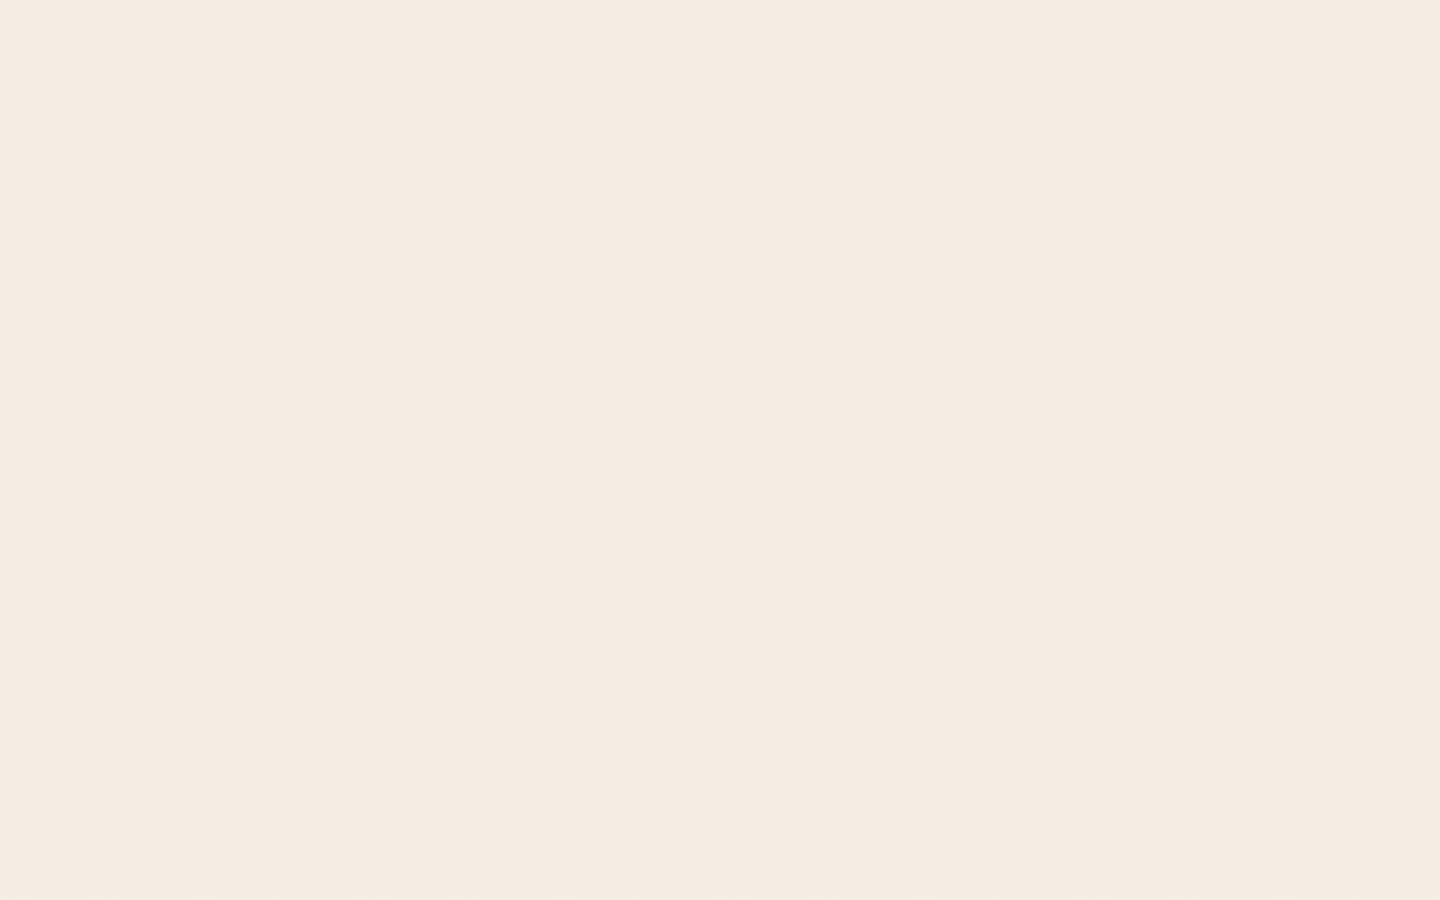
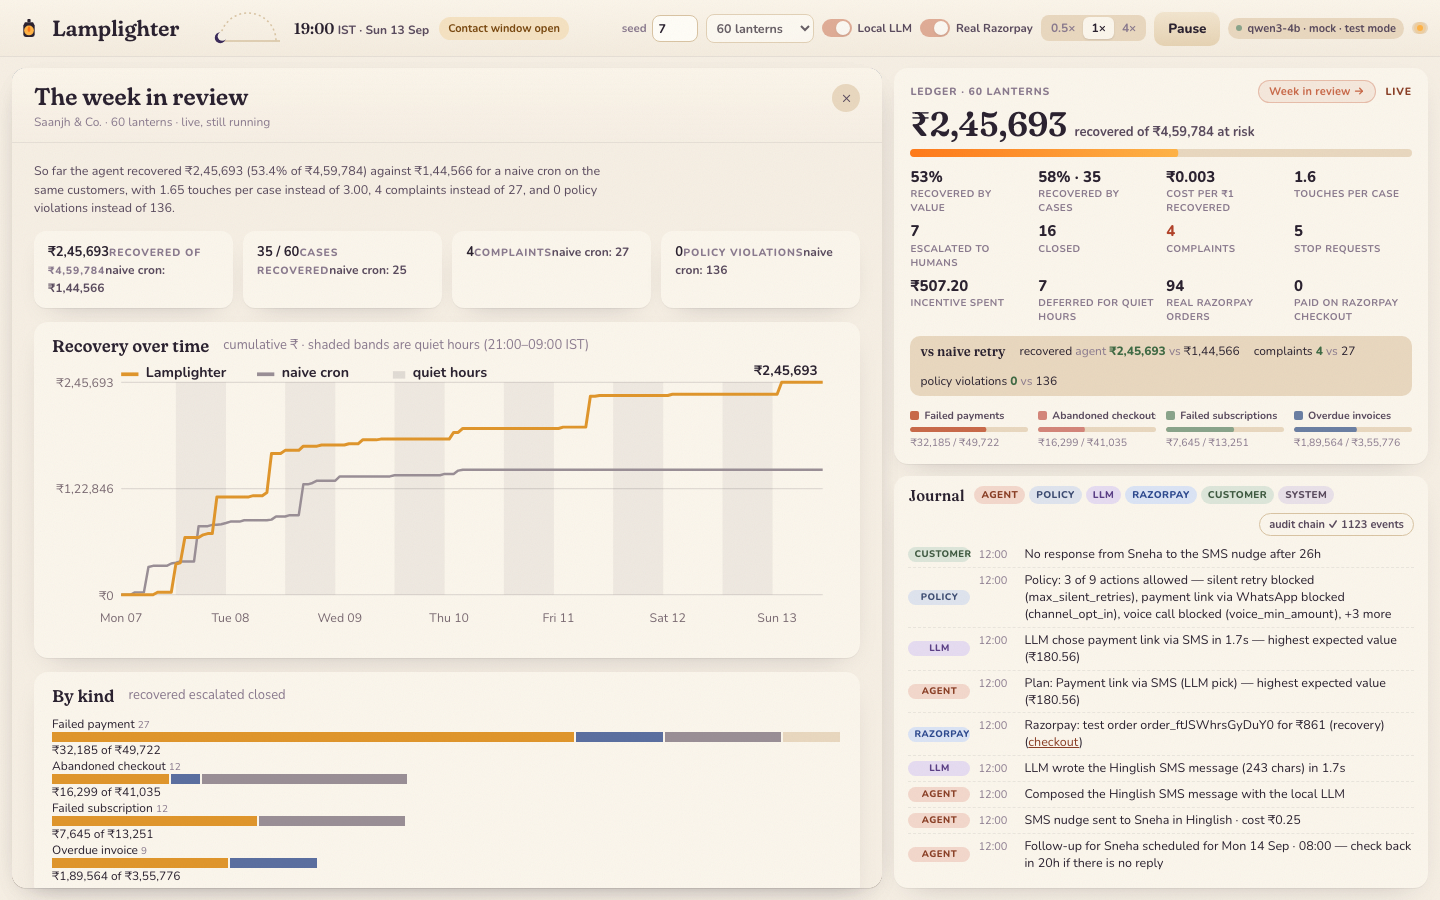
fix(review): guard the timeline chart against an empty agent series; refresh screenshot

diff --git a/web/src/review/WeekInReview.tsx b/web/src/review/WeekInReview.tsx
@@ -12,9 +12,10 @@ const istHourOf = (iso: string) => { const d = new Date(iso); return ((d.getUTCH
 
 function Timeline({ agent, cron, simStart }: { agent: TimelinePoint[]; cron?: TimelinePoint[]; simStart: string }) {
   const W = 640, H = 220, L = 56, R = 16, T = 14, B = 34;
-  const n = Math.max(agent.length, cron?.length ?? 0);
+  const n = agent.length;
   if (n < 2) return <p className="rv-empty">The timeline fills in as the week runs.</p>;
-  const maxY = Math.max(1, ...agent.map((p) => p.recoveredPaise), ...(cron ?? []).map((p) => p.recoveredPaise));
+  const cronPts = cron && cron.length >= 2 ? cron.slice(0, n) : undefined;
+  const maxY = Math.max(1, ...agent.map((p) => p.recoveredPaise), ...(cronPts ?? []).map((p) => p.recoveredPaise));
   const x = (i: number) => L + (i / (n - 1)) * (W - L - R);
   const y = (v: number) => T + (1 - v / maxY) * (H - T - B);
   const path = (pts: TimelinePoint[]) => pts.map((p, i) => `${i ? 'L' : 'M'}${x(i).toFixed(1)},${y(p.recoveredPaise).toFixed(1)}`).join(' ');
@@ -28,11 +29,11 @@ function Timeline({ agent, cron, simStart }: { agent: TimelinePoint[]; cron?: Ti
       {bands.map(([a, b], i) => <rect key={i} className="rv-quiet" x={x(a)} y={T} width={Math.max(1, x(b) - x(a))} height={H - T - B} fill="#2b2230" opacity="0.06" />)}
       {ticks.map((v, i) => <g key={i}><line x1={L} x2={W - R} y1={y(v)} y2={y(v)} stroke="#2b2230" opacity="0.12" /><text x={L - 6} y={y(v) + 4} textAnchor="end" fontSize="10" fill="#7a6a72">{rupees(v)}</text></g>)}
       {days.map((p, i) => <text key={i} x={x(i * 24)} y={H - 12} textAnchor="middle" fontSize="10" fill="#7a6a72">{dayLabel(p.t)}</text>)}
-      {cron && <path d={path(cron)} fill="none" stroke="#9a8f96" strokeWidth="2" strokeLinejoin="round" />}
+      {cronPts && <path d={path(cronPts)} fill="none" stroke="#9a8f96" strokeWidth="2" strokeLinejoin="round" />}
       <path d={path(agent)} fill="none" stroke="#e0962c" strokeWidth="2.4" strokeLinejoin="round" />
       <g className="rv-legend" fontSize="11" fill="#2b2230">
         <rect x={L} y={T - 8} width="14" height="3" fill="#e0962c" /><text x={L + 20} y={T - 4}>Lamplighter</text>
-        {cron && <><rect x={L + 110} y={T - 8} width="14" height="3" fill="#9a8f96" /><text x={L + 130} y={T - 4}>naive cron</text></>}
+        {cronPts && <><rect x={L + 110} y={T - 8} width="14" height="3" fill="#9a8f96" /><text x={L + 130} y={T - 4}>naive cron</text></>}
         <rect x={L + 220} y={T - 9} width="10" height="6" fill="#2b2230" opacity="0.12" /><text x={L + 236} y={T - 4}>quiet hours</text>
       </g>
       <text x={x(n - 1) - 4} y={y(agent[agent.length - 1].recoveredPaise) - 6} textAnchor="end" fontSize="11" fontWeight="700" fill="#2b2230">{rupees(agent[agent.length - 1].recoveredPaise)}</text>
